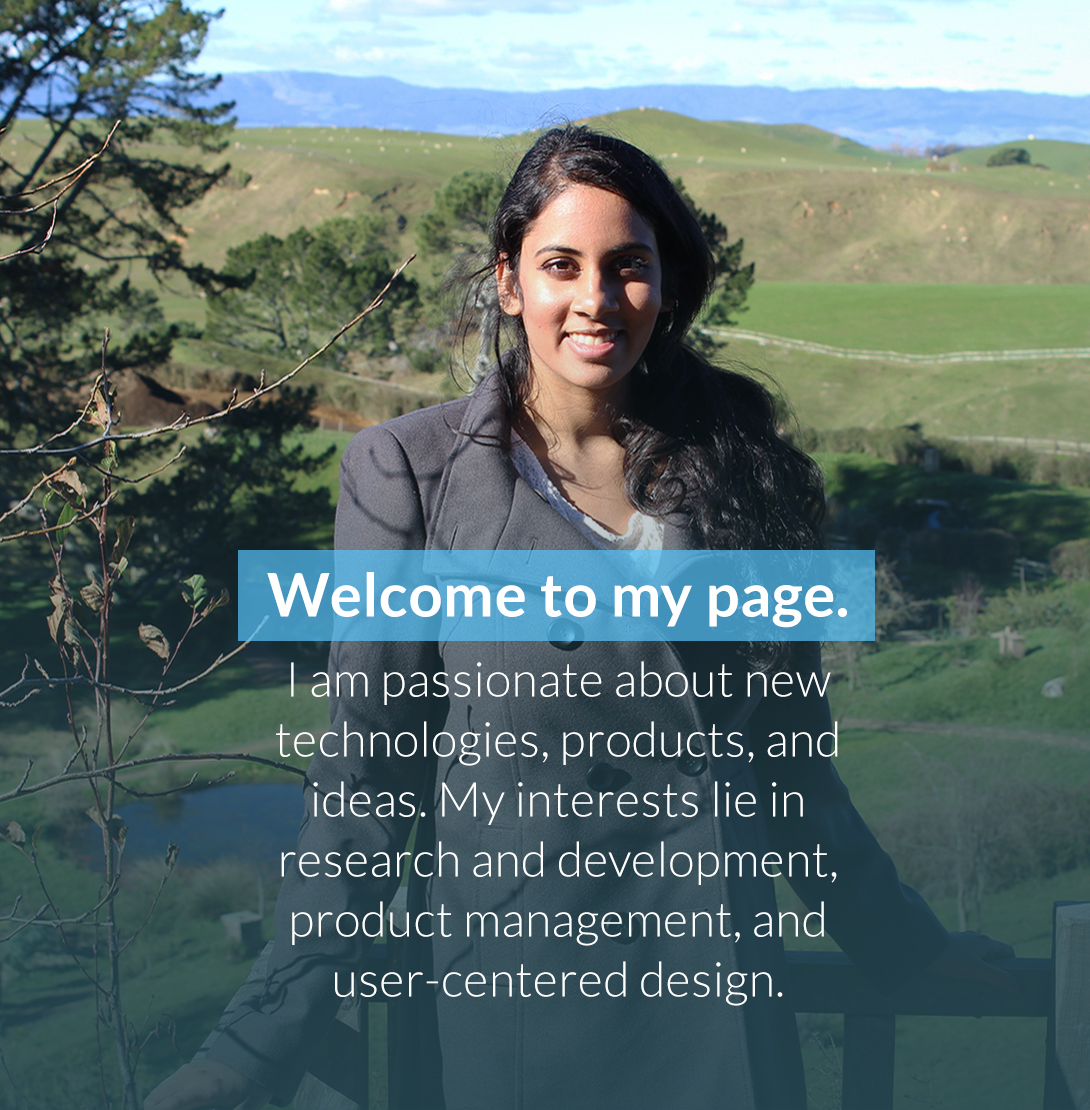
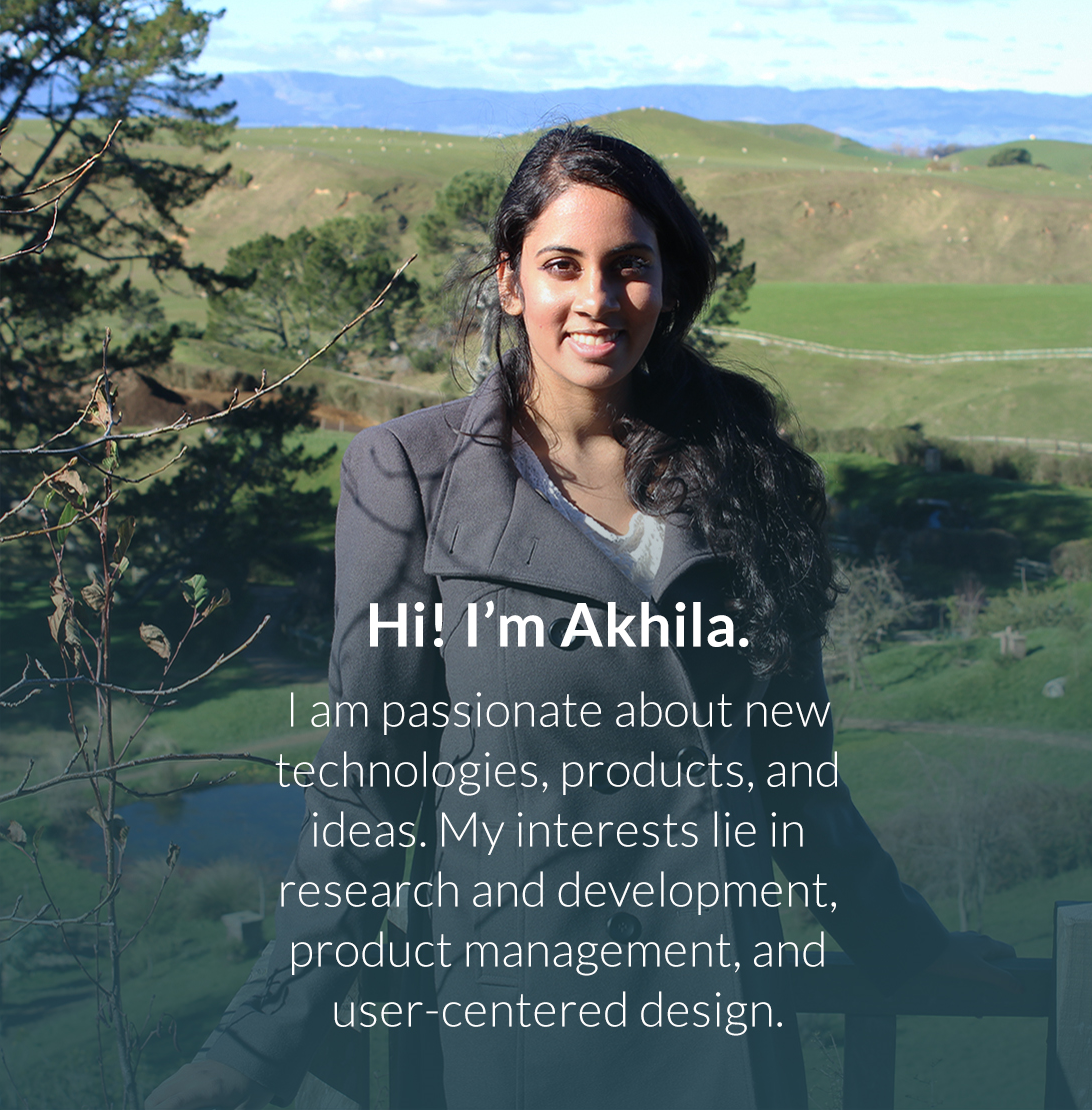
changed all images and added email button

diff --git a/projects.html b/projects.html
@@ -1,1 +1,34 @@
-Still a work in progress. Please check back soon :)
+<!DOCTYPE html>
+<html>
+<head>
+	<link rel="stylesheet" type="text/css" href="website.css">
+	<title>Akhila Raju</title>
+	<link rel="shortcut icon" href="initials.ico">
+</head>
+<body>
+
+	<!-- name, location, email, linkedin, twitter -->
+	<div id="topbar" class="center">
+		<div id="info">
+			<img src="akhilaraju.png" width="715" height="140" />
+		</div>
+		<div id="media">
+			<div id="mediaimgs">
+				<a id="email" href="http://www.google.com" width="inherit" height="inherit"><img src="email.png" height="49" width="49" /></a>
+				<a id="linkedin" href="https://www.linkedin.com/in/akhilaraju" width="inherit" height="inherit"><img src="linkedin.png" height="49" width="49" /></a>
+				<a id="twitter" href="https:www.twitter.com/akhilasraju" width="inherit" height="inherit"><img src="twitter.png" height="49" width="49" /></a>
+			</div>
+		</div>
+	</div>
+
+	<div id="body_whitebox" class="center">
+		<p> Still a work in progress. Please check back soon. :)
+	</div>
+
+	<!-- copyright bar -->
+	<div id="copyrightbar">
+		<img id="copyright" class="center" src="copyright.png" width="954" height="170" />
+	</div>
+
+</body>
+</html>

diff --git a/index.html b/index.html
@@ -10,10 +10,11 @@
 	<!-- name, location, email, linkedin, twitter -->
 	<div id="topbar" class="center">
 		<div id="info">
-			<img src="akhilaraju.png" width="788" height="115" />
+			<img src="akhilaraju.png" width="715" height="140" />
 		</div>
 		<div id="media">
 			<div id="mediaimgs">
+				<a id="email" href="mailto:akhilaraju@berkeley.edu" width="inherit" height="inherit"><img src="email.png" height="49" width="49" /></a>
 				<a id="linkedin" href="https://www.linkedin.com/in/akhilaraju" width="inherit" height="inherit"><img src="linkedin.png" height="49" width="49" /></a>
 				<a id="twitter" href="https:www.twitter.com/akhilasraju" width="inherit" height="inherit"><img src="twitter.png" height="49" width="49" /></a>
 			</div>

diff --git a/website.css b/website.css
@@ -4,6 +4,7 @@ a {
 
 body {
 	background-color: #fcfae3;
+	text-align: center;
 }
 
 div {
@@ -18,28 +19,34 @@ div {
 
 #topbar {
 	width: 954px;
+	height: 155px;
 	overflow: hidden;
 }
 
 #info {
+	margin-top: 10px;
 	float: left;
 }
 
 #media {
 	overflow: hidden;
+	float: left;
 }
 
 #mediaimgs {
-	float: 35px auto;
-	margin-top: 34px;
+	margin-top: 55px;
+}
+
+#email {
+	margin-left: 24px;
 }
 
 #linkedin {
-	margin-left: 5px;
+	margin-left: 6px;
 }
 
 #twitter {
-	margin-left: 10px;
+	margin-left: 6px;
 }
 
 #github {
